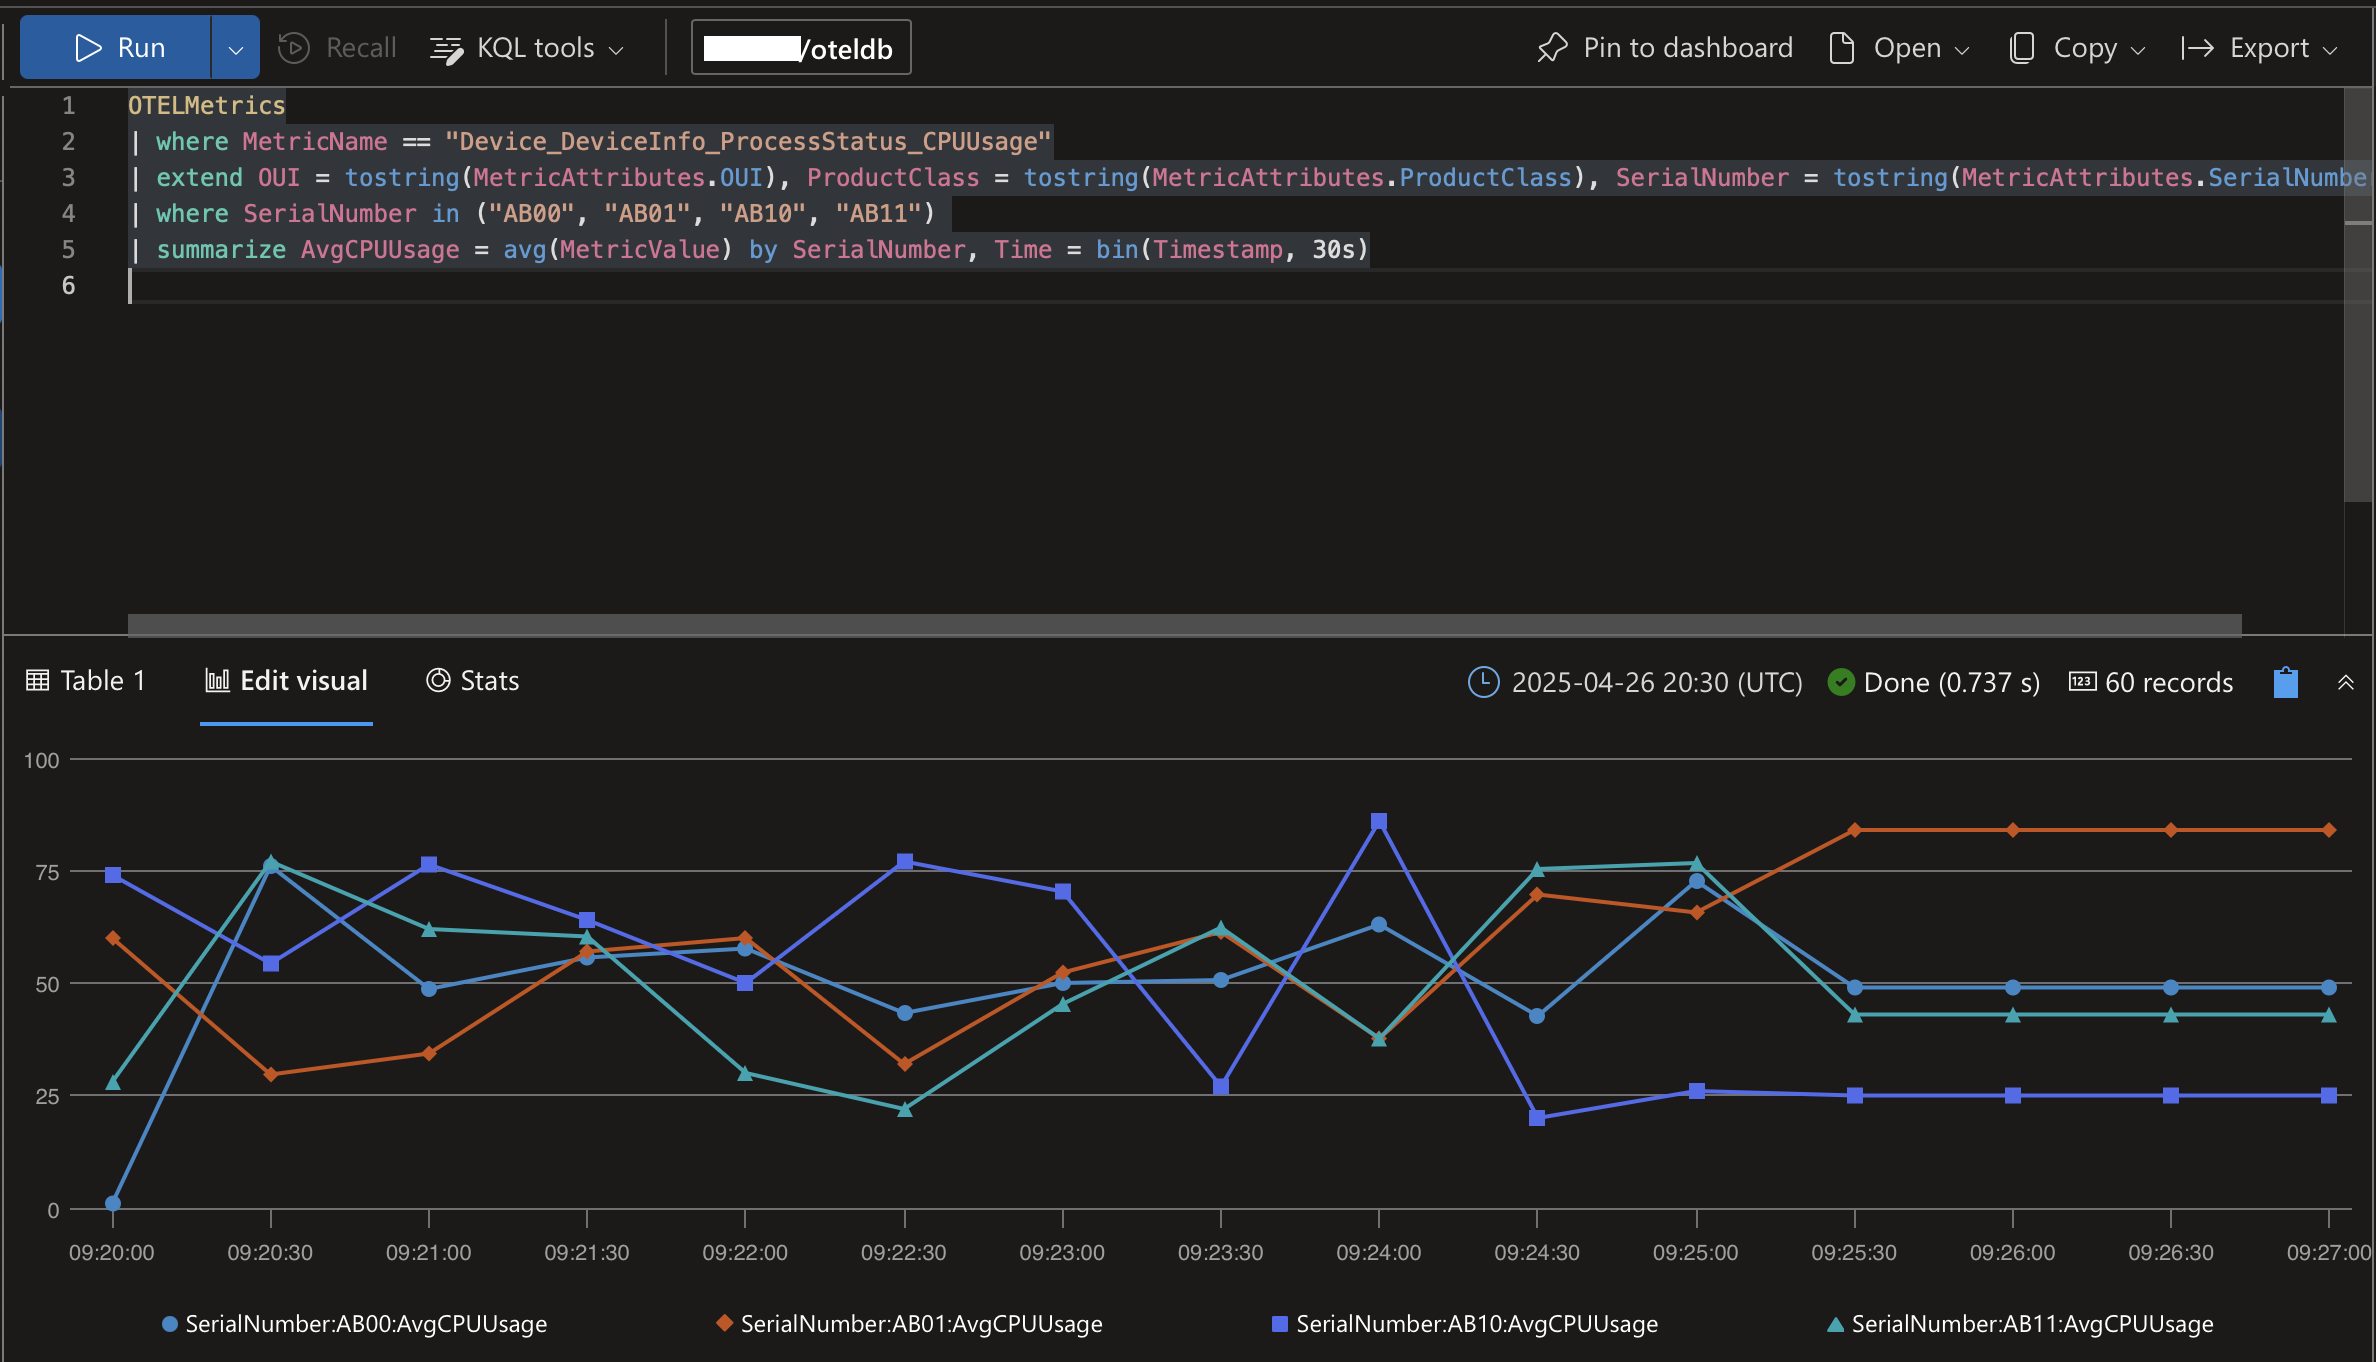
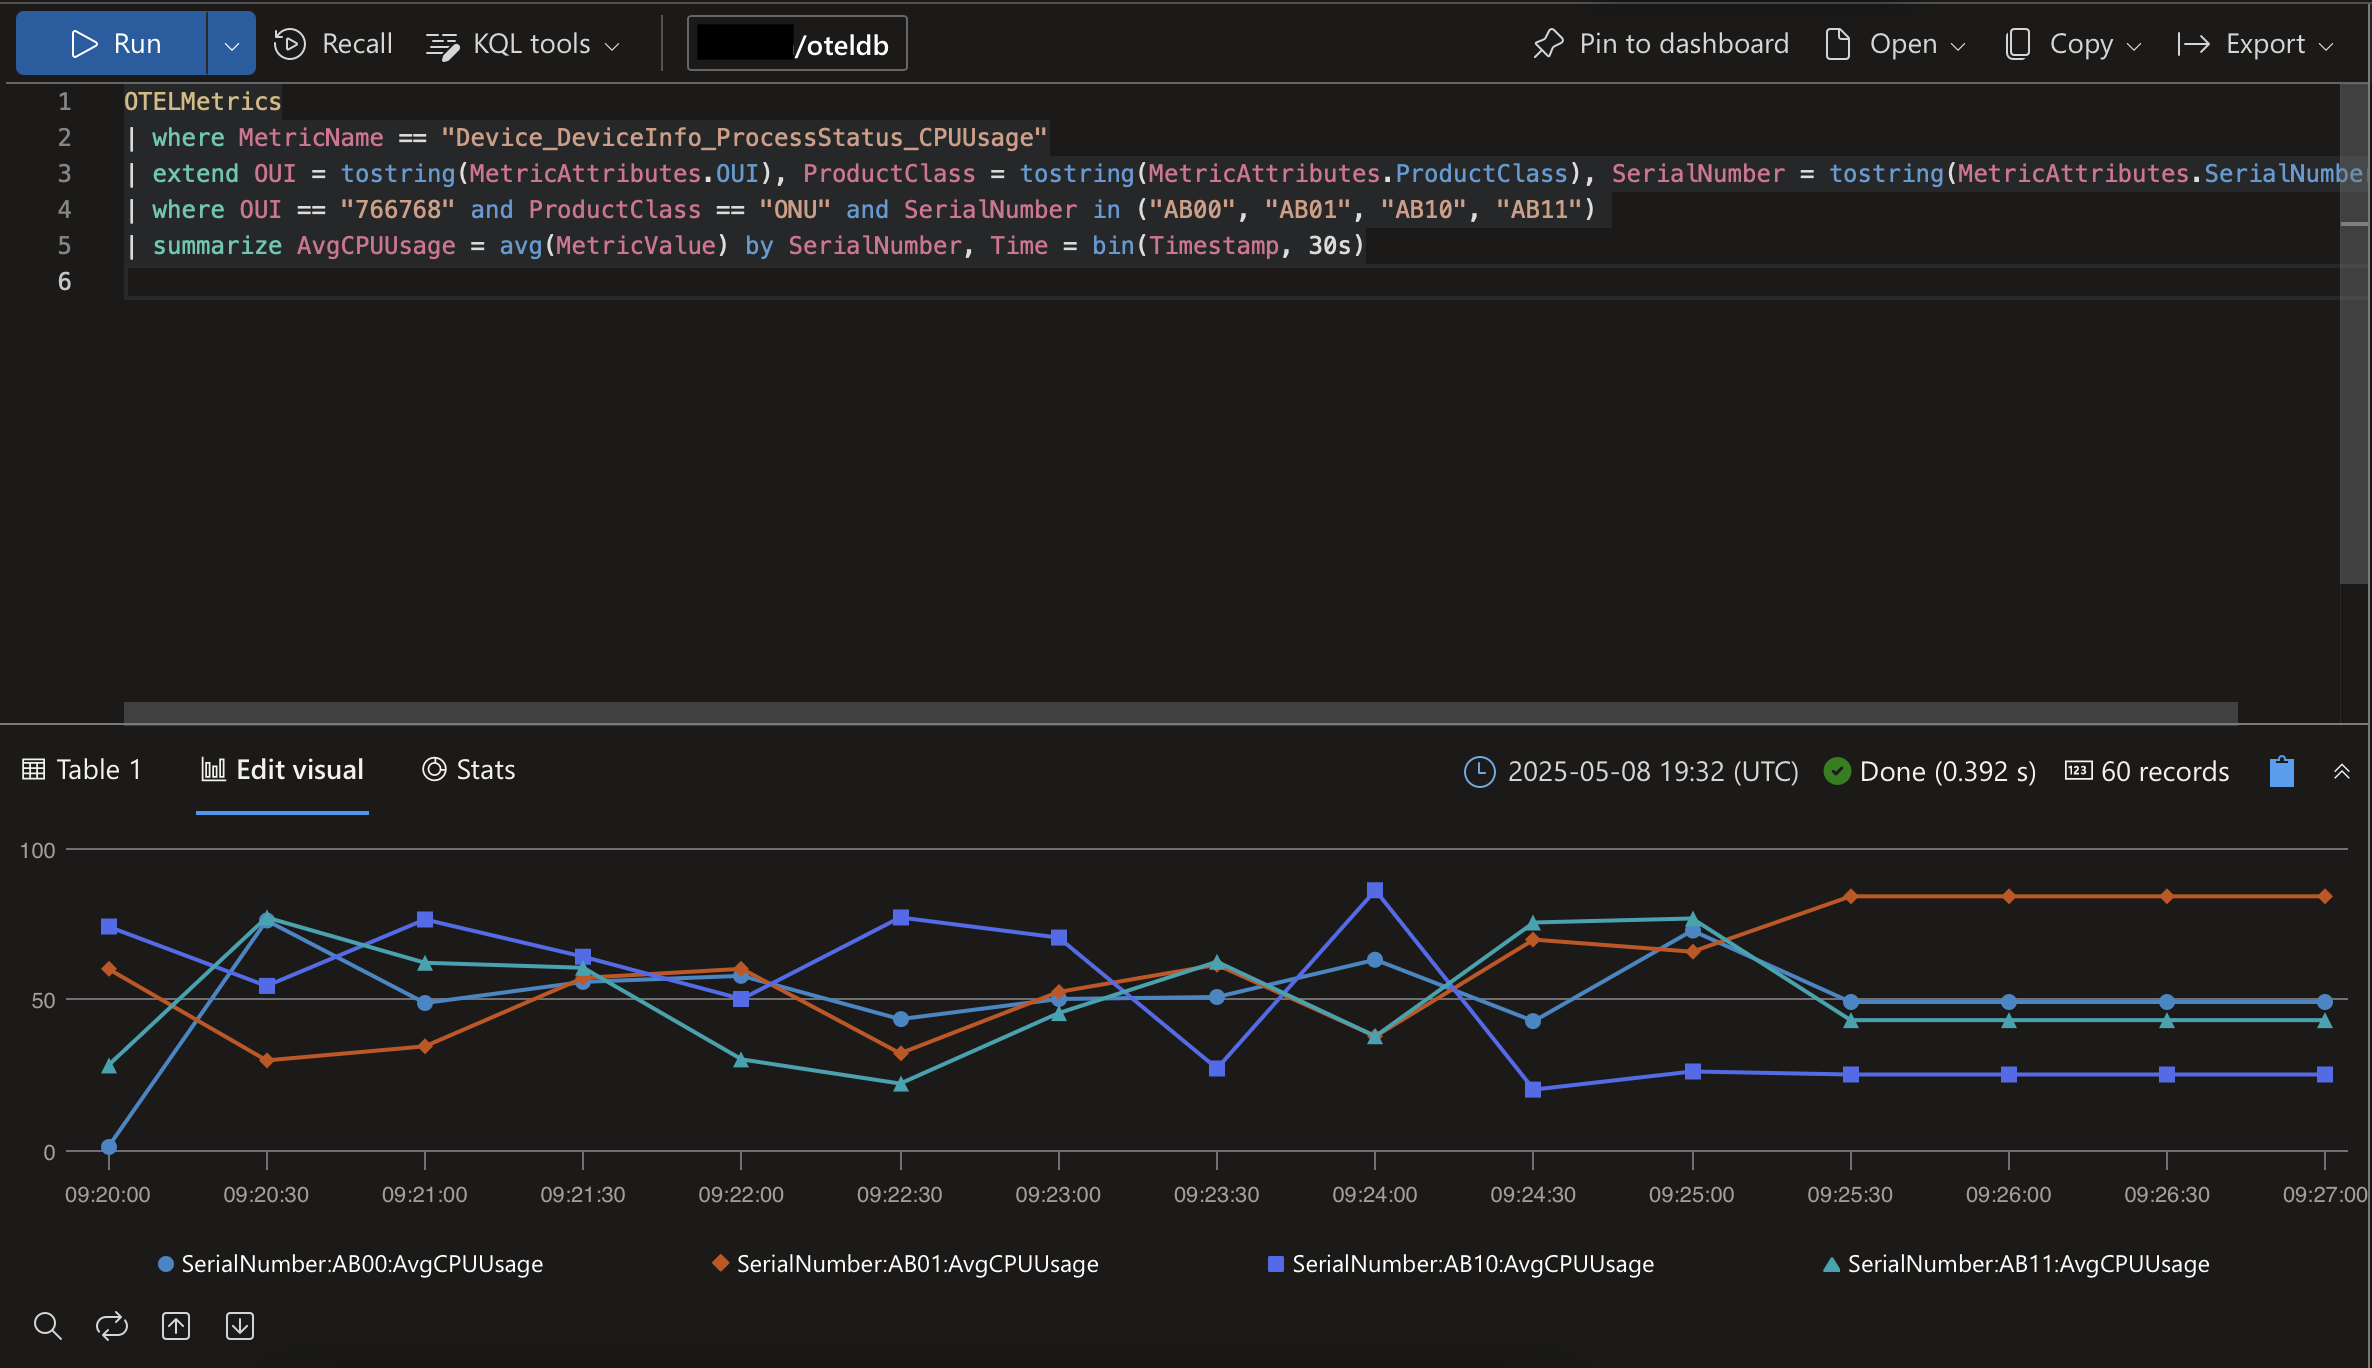
Add an example of export to Azure Data Explorer

diff --git a/readme.md b/readme.md
@@ -82,7 +82,7 @@ When the collector starts, it queries the Event Hub management API to retrieve t
 > 
 > When used alongside the Event Hubs telemetry available in the Azure portal, these metrics provide good visibility to the pipeline performance.
 
-### Example
+### Example 1
 
 Among the many options available in Azure for processing the ingested data, you can use [Azure Stream Analytics](https://learn.microsoft.com/en-us/azure/stream-analytics/) to monitor the devices' CPU and memory usage in real time, at scale. The stream processing job can trigger an alarm and store it in [Azure Cosmos DB](https://learn.microsoft.com/en-us/azure/cosmos-db/) when the average CPU utilization or available memory on any device crosses predefined thresholds.
 
@@ -111,13 +111,13 @@ In scenarios like this, it is common practice to store the threshold configurati
 ]
 ```
 
-2. Create a Cosmos DB account, database "collector" and containers "points" and "alarms". Set the partition key to `/DeviceName` for both containers. Set the default TTL for the "alarms" collection to 10 minutes to ensure that alarms are automatically deleted 10 minutes after their last update by the Stream Analytics job.
+2. Create a Cosmos DB account. Open [Azure Cosmos DB Data Explorer](https://cosmos.azure.com) and create a database "collector" and containers "points" and "alarms". Set the partition key to `/DeviceName` for both containers. Set the default TTL for the "alarms" collection to 10 minutes to ensure that alarms are automatically deleted 10 minutes after their last update by the Stream Analytics job.
 
 3. Create a Stream Analytics job with the following inputs, outputs and SAQL query:
 
 Inputs:
 
-- "events" connected to the Event Hub in which the bulk data collector ingests events.
+- "events" connected to the Event Hub in which the bulk data collector ingests events. Do not use the default consumer group `$Default`. Create a dedicated consumer group instead.
 - "limits" connected to the `limits/limits.json` blob.
 
 Outputs:
@@ -180,8 +180,10 @@ GROUP BY
   ParameterName,
   LimitMinValue,
   LimitMaxValue
+-- Trigger the alarm if any parameter value within the selected time window exceeds the specified limits.
 HAVING MIN(ParameterValue) < LimitMinValue OR MAX(ParameterValue) > LimitMaxValue
--- HAVING NOT AVG(ParameterValue) BETWEEN LimitMinValue AND LimitMaxValue
+-- Trigger the alarm if the average parameter value for the selected time window exceeds the specified limits.
+-- HAVING AVG(ParameterValue) NOT BETWEEN LimitMinValue AND LimitMaxValue
 ```
 
 The Stream Analytics job should look like the screenshot below:
@@ -206,7 +208,7 @@ cd prometheus
 docker compose --profile grafana up -d
 ```
 
-Open [Prometheus dashboard](http://localhost:9090) or [Grafana dashboard](http://localhost:3000).
+Open the Prometheus [dashboard](http://localhost:9090) or Grafana [dashboard](http://localhost:3000).
 
 Create a graph with the following metrics to monitor the number of events processed per partition
 
@@ -238,7 +240,7 @@ cd grafana/k6
 k6 run collector.js
 ```
 
-Open the "collector" database and the "points" and "alarms" containers in [Azure Cosmos DB Data Explorer](https://cosmos.azure.com).
+In [Azure Cosmos DB Data Explorer](https://cosmos.azure.com), open the "collector" database and the "points" and "alarms" containers.
 
 Data points collected in the "points" container: 
 
@@ -248,19 +250,105 @@ CPU usage alarm in the "alarms" container:
 
 ![CPU usage alarm in Azure Coosmos DB](./docs/azure_cosmos_alarms_cpuusage.png)
 
-Memory usage alarm in the "alarms" container:
+Free memory alarm in the "alarms" container:
 
-![Memory alarm in Azure Data Explorer](./docs/azure_cosmos_alarms_memory.png)
+![Free memory alarm in Azure Data Explorer](./docs/azure_cosmos_alarms_freememory.png)
+
+### Example 2
+
+1. Create a Data Explorer cluster. Open [Azure Data Explorer](https://dataexplorer.azure.com) and create a new database. Run the following [Kusto](https://learn.microsoft.com/en-us/kusto/) commands to create the necessary schema.
+
+```kusto
+.create-merge table DataPoints (Time:datetime, OUI:string, ProductClass:string, SerialNumber:string, Parameters:dynamic)
+
+.create table DataPoints ingestion json mapping "DataPoints_mapping" '[{"column":"Time", "Properties":{"Path":"$.x-opt-enqueued-time"}},{"column":"OUI", "Properties":{"Path":"$.OUI"}},{"column":"ProductClass", "Properties":{"Path":"$.ProductClass"}},{"column":"SerialNumber", "Properties":{"Path":"$.SerialNumber"}},{"column":"Parameters", "Properties":{"Path":"$.Parameters"}}]'
+
+.alter table DataPoints policy streamingingestion enable
+```
+
+2. Add `config.env` to `cmd/azureeventhubs`
+
+```env
+# cmd/azureeventhubs/config.env
+
+AZURE_EVENTHUBS_CONNECTION_STRING=<Add the Event Hubs connection string here>
+AZURE_EVENTHUBS_EVENTHUB=<Add the Event Hub name here>
+PARTITION_QUEUE_LIMIT=100
+PARTITION_PRODUCERS_COUNT=1
+```
+
+3. Run Prometheus and Grafana (this is required only if you need to monitor the pipeline performance)
+
+```shell
+cd prometheus
+docker compose --profile grafana up -d
+```
+
+Open the Prometheus [dashboard](http://localhost:9090) or the Grafana [dashboard](http://localhost:3000). Create a graph with the following metrics to monitor the number of events processed per partition
+
+```promql
+partition_queue_counter{partition=~".*"}
+partition_batch_counter_total{partition=~".*"}
+partition_event_counter_total{partition=~".*"}
+```
+
+or alternatively, use the following aggregate metrics to monitor the total event volume flowing through the entire pipeline
+
+```promql
+sum (partition_queue_counter)
+sum (partition_batch_counter_total)
+sum (partition_event_counter_total)
+```
+
+4. Run the Bulk Data Collector
+
+```shell
+cd cmd/azureeventhubs
+go run main.go
+```
+
+5. Run the test
+
+```shell
+cd grafana/k6
+k6 run collector.js
+```
+
+In [Azure Data Explorer](https://dataexplorer.azure.com) run the following [Kusto](https://learn.microsoft.com/en-us/kusto/) query to visualize the collected data points from the devices with serial numbers "AB00", "AB01", "AB10" and "AB11".
+
+```kusto
+DataPoints
+```
+
+![Visualization of data points in Azure Data Explorer](./docs/azure_dataexplorer_datapoints.png)
+
+Run the following [Kusto](https://learn.microsoft.com/en-us/kusto/) queries to visualize the CPU usage and free memory of the devices with serial numbers "AB00", "AB01", "AB10" and "AB11".
+
+```kusto
+DataPoints
+| where OUI == "766768" and ProductClass == "ONU" and SerialNumber in ("AB00", "AB01", "AB10", "AB11") 
+| extend CPUUsage = todouble(Parameters["Device.DeviceInfo.ProcessStatus.CPUUsage"])
+| summarize AvgCPUUsage = avg(CPUUsage) by SerialNumber, Time = bin(Time, 30s)
+
+DataPoints
+| where OUI == "766768" and ProductClass == "ONU" and SerialNumber in ("AB00", "AB01", "AB10", "AB11") 
+| extend FreeMemory = todouble(Parameters["Device.DeviceInfo.MemoryStatus.Free"])
+| summarize AvgFreeMemory = avg(FreeMemory) by SerialNumber, Time = bin(Time, 30s)
+```
+
+Add a line chart visuals and pin them to a new dashboard.
+
+![Visualization of CPU usage and free memory in Azure Data Explorer](./docs/azure_dataexplorer_dashboard.png)
 
 ## OpenTelemetry (OTel)
 
 This variant of the collector works very differently — it uses a configurable mapping to extract selected properties from device reports and convert them into OTel metrics. These metrics are then periodically exported via the OTLP protocol to any [OpenTelemetry (OTel)](https://opentelemetry.io/docs/what-is-opentelemetry/) compatible collector. This enables direct integration of selected device metrics with a wide range of observability platforms.
 
-### Example
+### Example 1
 
-You can use [OpenTelemetry Collector Contrib](https://github.com/open-telemetry/opentelemetry-collector-contrib/) distribution with [Azure Data Explorer](https://learn.microsoft.com/en-us/azure/data-explorer/) and [Azure Monitor](https://learn.microsoft.com/en-us/azure/azure-monitor/) exporters.
+You can use [OpenTelemetry Collector Contrib](https://github.com/open-telemetry/opentelemetry-collector-contrib/) distribution with [Azure Data Explorer](https://learn.microsoft.com/en-us/azure/data-explorer/) and [Azure Monitor](https://learn.microsoft.com/en-us/azure/azure-monitor/) exporters to export the collected metrics to Azure Monitor and Azure Data Explorer simultaneously.
 
-1. Create the necessary tables in Azure Data Explorer
+1. Create an Application Insights instance and a Log Analytics workspace (both are components of Azure Monitor). Create a Data Explorer cluster. Open [Azure Data Explorer](https://dataexplorer.azure.com) and create a database "oteldb". Run the following [Kusto](https://learn.microsoft.com/en-us/kusto/) commands to create the necessary schema.
 
 ```kusto
 .create-merge table OTELLogs (Timestamp:datetime, ObservedTimestamp:datetime, TraceID:string, SpanID:string, SeverityText:string, SeverityNumber:int, Body:string, ResourceAttributes:dynamic, LogsAttributes:dynamic)
@@ -327,7 +415,7 @@ service:
 
 This configures the OTel collector to accept metrics on standard OTLP ports and then to export them to Azure Monitor and Azure Data Explorer simultaneously.
 
-3. Add `config.env` to `cmd/otel`
+3. Add an empty `config.env` to `cmd/otel`
 
 ```env
 # cmd/otel/config.env
@@ -403,39 +491,39 @@ cd grafana/k6
 k6 run collector.js
 ```
 
-Open Azure Monitor and run the following [Kusto](https://learn.microsoft.com/en-us/kusto/) query to visualize CPU Usage metric of the devices with serial numbers "AB00", "AB01", "AB10" and "AB11".
+In the Application Insights instance or in the Log Analytics workspace open Logs and run the following [Kusto](https://learn.microsoft.com/en-us/kusto/) query to visualize CPU usage metric of the devices with serial numbers "AB00", "AB01", "AB10" and "AB11".
 
 ```kusto
 customMetrics
 | where name == "Device_DeviceInfo_ProcessStatus_CPUUsage"
 | extend OUI = tostring(customDimensions.OUI), ProductClass = tostring(customDimensions.ProductClass), SerialNumber = tostring(customDimensions.SerialNumber)
-| where SerialNumber in ("AB00", "AB01", "AB10", "AB11") 
-| summarize AvvgCPUUsage = avg(value) by SerialNumber, Time = bin(timestamp, 30s)
+| where OUI == "766768" and ProductClass == "ONU" and SerialNumber in ("AB00", "AB01", "AB10", "AB11") 
+| summarize AvgCPUUsage = avg(value) by SerialNumber, Time = bin(timestamp, 30s)
 ```
 
 Switch from Results to Chart tab. Change chart type to "Line".
 
-![Visualization of CPU Usage metric in Azure Monitor](./docs/azure_monitor_cpuusage.png)
+![Visualization of CPU usage metric in Azure Monitor](./docs/azure_monitor_cpuusage.png)
 
-Open [Azure Data Explorer](https://dataexplorer.azure.com). Connect to your Azure Data Explorer cluster. Select the "oteldb" database and run the following [Kusto](https://learn.microsoft.com/en-us/kusto/) query to visualize CPU Usage metric of the devices with serial numbers "AB00", "AB01", "AB10" and "AB11".
+In [Azure Data Explorer](https://dataexplorer.azure.com), run the following [Kusto](https://learn.microsoft.com/en-us/kusto/) query to visualize CPU usage metric of the devices with serial numbers "AB00", "AB01", "AB10" and "AB11".
 
 ```kusto
 OTELMetrics
 | where MetricName == "Device_DeviceInfo_ProcessStatus_CPUUsage"
 | extend OUI = tostring(MetricAttributes.OUI), ProductClass = tostring(MetricAttributes.ProductClass), SerialNumber = tostring(MetricAttributes.SerialNumber)
-| where SerialNumber in ("AB00", "AB01", "AB10", "AB11") 
+| where OUI == "766768" and ProductClass == "ONU" and SerialNumber in ("AB00", "AB01", "AB10", "AB11") 
 | summarize AvgCPUUsage = avg(MetricValue) by SerialNumber, Time = bin(Timestamp, 30s)
 ```
 
 Add a line chart visual.
 
-![Visualization of CPU Usage metric in Azure Data Explorer](./docs/azure_dataexplorer_cpuusage.png)
+![Visualization of CPU usage metric in Azure Data Explorer](./docs/azure_dataexplorer_cpuusage.png)
 
 ## MQTT
 
 This variant of the collector sends the collected data to any MQTT v5 compatible broker.
 
-### Example
+### Example 1
 
 You can use [Azure Event Grid](https://learn.microsoft.com/en-us/azure/event-grid/) with MQTT feature enabled.
 
@@ -475,6 +563,6 @@ Work in progress...
 
 Work in progress...
 
-### Example
+### Example 1
 
 Work in progress...
